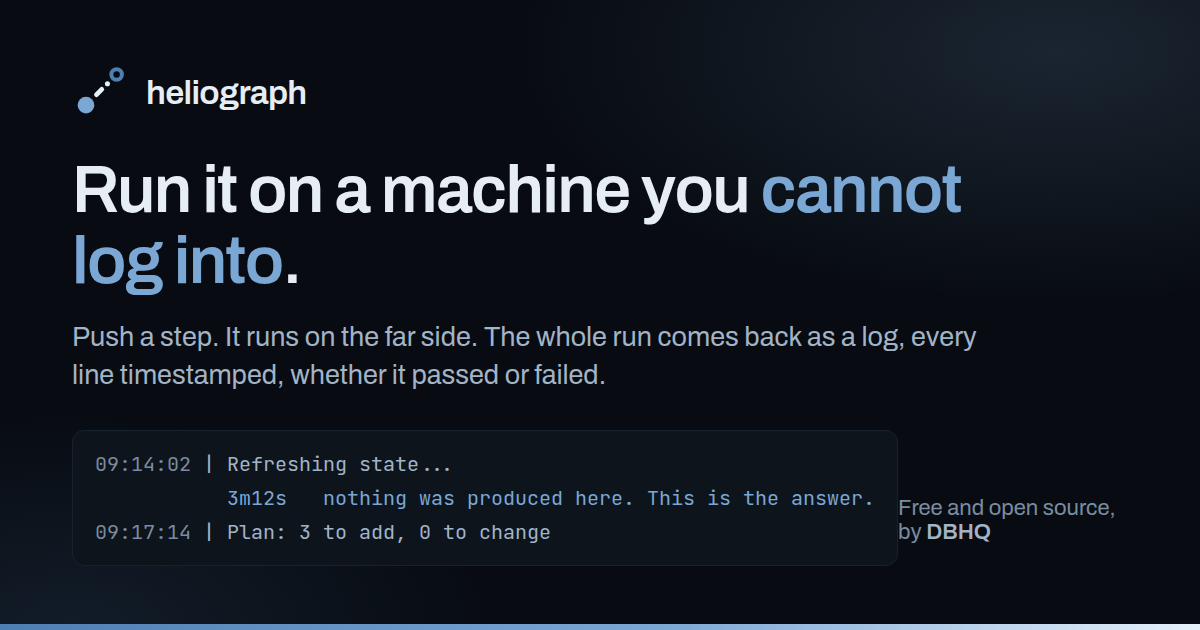
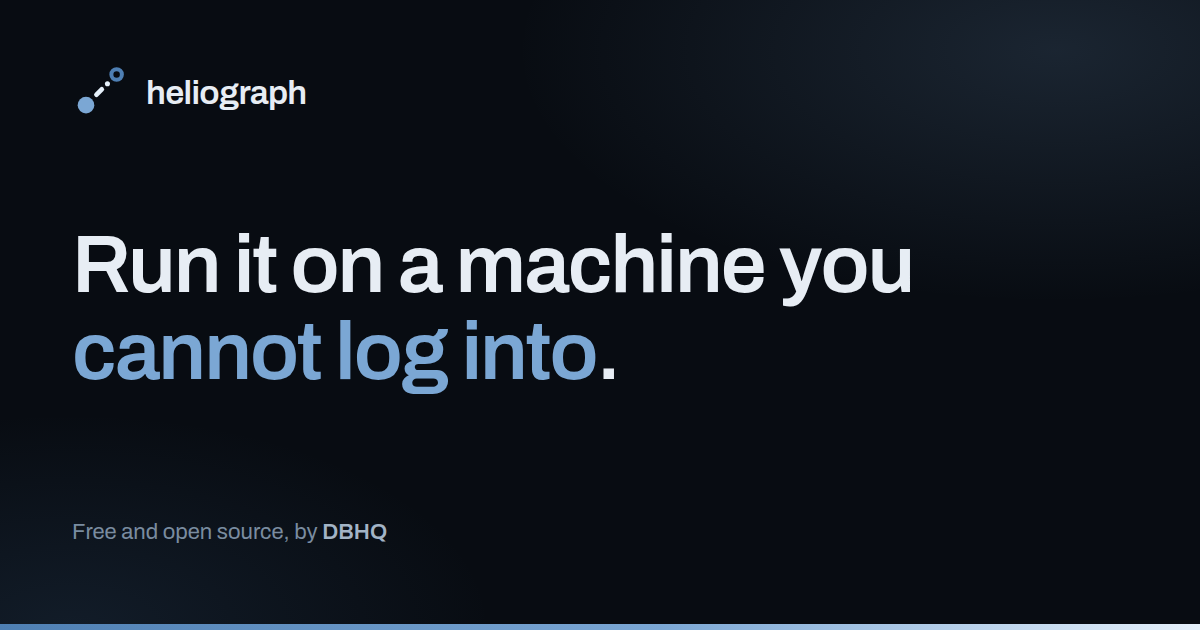
fix(og): fourteen words, and nothing colliding
The card carried the headline, a 24-word lede and a three-line log, and the
byline had nowhere left to sit: it wrapped against the right edge, level with
the log panel. That is the image GitHub renders at full size in an unfurl and
the first thing a reader's eye lands on after the headline.

The log was unreadable at the size a card is actually seen anyway, and the
lede repeats what the page under it says. So: the mark, the headline, the
byline. The headline goes from 66px to 82px because it is now the only thing
competing for the space.

diff --git a/site/og/og.html b/site/og/og.html
@@ -18,13 +18,9 @@ body{background:#080C12;color:#E7EDF4;font-family:'Archivo',sans-serif;position:
 .wrap{position:absolute;inset:0;padding:64px 72px;box-sizing:border-box;display:flex;flex-direction:column;justify-content:space-between}
 .brand{display:flex;align-items:center;gap:18px;font-weight:600;font-size:34px;letter-spacing:-.02em}
 .brand svg{width:56px;height:56px}
-h1{font-weight:600;font-size:66px;line-height:1.08;letter-spacing:-.025em;margin:0 0 22px;max-width:980px}
+h1{font-weight:600;font-size:82px;line-height:1.06;letter-spacing:-.025em;margin:0;max-width:1020px}
 h1 em{font-style:normal;color:#7BA7D4}
-.lede{font-size:27px;line-height:1.4;color:#A3B4C6;margin:0;max-width:940px}
-.log{font-family:'JetBrains Mono',monospace;font-size:20px;line-height:1.7;color:#A3B4C6;margin:0;
-  background:#0D141C;border:1px solid #18222E;border-radius:12px;padding:16px 22px;width:max-content}
-.t{color:#7A8CA0}.gap{color:#7BA7D4}
-.foot{display:flex;justify-content:space-between;align-items:flex-end}
+.foot{display:flex;justify-content:flex-start;align-items:flex-end}
 .by{font-size:22px;color:#7A8CA0}
 .by b{color:#A3B4C6;font-weight:600}
 </style>
@@ -39,14 +35,8 @@ h1 em{font-style:normal;color:#7BA7D4}
     </svg>
     heliograph
   </div>
-  <div>
-    <h1>Run it on a machine you <em>cannot log into</em>.</h1>
-    <p class="lede">Push a step. It runs on the far side. The whole run comes back as a log, every line timestamped, whether it passed or failed.</p>
-  </div>
+  <h1>Run it on a machine you <em>cannot log into</em>.</h1>
   <div class="foot">
-    <pre class="log"><span class="t">09:14:02</span> | Refreshing state...
-<span class="gap">           3m12s   nothing was produced here. This is the answer.</span>
-<span class="t">09:17:14</span> | Plan: 3 to add, 0 to change</pre>
     <p class="by">Free and open source, by <b>DBHQ</b></p>
   </div>
 </div>
